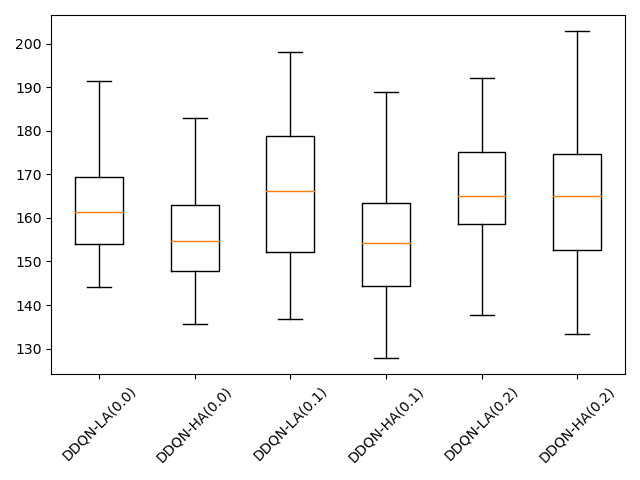
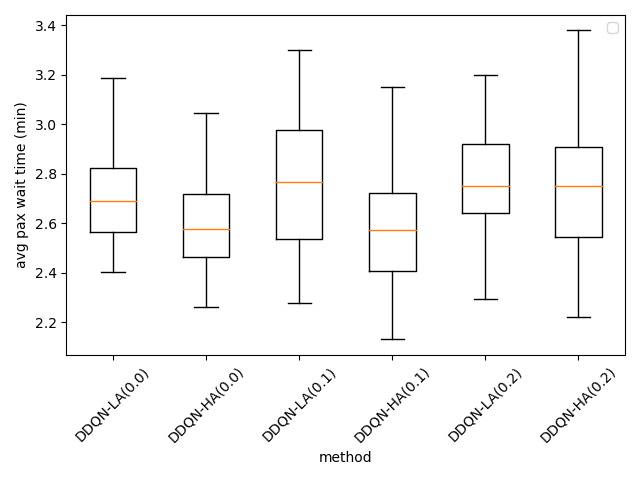
refine results

diff --git a/src/04_SIMULATION/main_sim.py b/src/04_SIMULATION/main_sim.py
@@ -4,6 +4,7 @@ import pandas as pd
 from sim_env import DetailedSimulationEnv, DetailedSimulationEnvWithControl, DetailedSimulationEnvWithDeepRL
 from file_paths import *
 import post_process
+import matplotlib.pyplot as plt
 from datetime import datetime, timedelta
 from output import dwell_times, error_headway, link_times
 from output import PostProcessor
@@ -128,14 +129,28 @@ def run_sample_rl(episodes=1, simple_reward=False):
 # path_p_rl3 = 'out/DDQN-HA/pax_set_0222-233609.pkl'
 # path_tr_rl4 = 'out/DDQN-HA/trajectory_set_0223-220817.pkl' # 0223-2159
 # path_p_rl4 = 'out/DDQN-HA/pax_set_0223-220817.pkl'
-# tags = ['NC', 'EH(0.6)', 'DDQN-LA', 'DDQN-HA(0.0)', 'DDQN-HA(0.33)', 'DDQN-HA(0.67)', 'DDQN-HA(1.0)']
+# tags = ['NC', 'EH', 'DDQN-LA', 'DDQN-HA(-)', 'DDQN-HA(3.0)', 'DDQN-HA(1.5)', 'DDQN-HA(1.0)']
 # prc = PostProcessor([path_tr_nc, path_tr_eh, path_tr_rl0, path_tr_rl1, path_tr_rl2, path_tr_rl3, path_tr_rl4],
 #                     [path_p_nc, path_p_eh, path_p_rl0, path_p_rl1, path_p_rl2, path_p_rl3, path_p_rl4], tags)
+# path_dir='out/compare/benchmark/'
 # results = {}
 # results.update(prc.pax_times_fast())
 # results.update(prc.headway())
 # results_df = pd.DataFrame(results, columns=list(results.keys()))
 # results_df.to_csv('out/compare/benchmark/numer_results.csv', index=False)
+# rbt_od_set = post_process.load('out/compare/benchmark/rbt_od_benchmark.pkl')
+# for i in range(len(rbt_od_set)):
+#     rbt_od_set[i] = [rbt/60 for rbt in rbt_od_set[i]]
+# plt.boxplot(rbt_od_set, labels=tags, sym='')
+# plt.xticks(rotation=45)
+# plt.xlabel('method')
+# plt.ylabel('reliability buffer time (min)')
+# plt.legend()
+# plt.tight_layout()
+# plt.savefig(path_dir + 'rbt.png')
+# plt.close()
+
+# save(path_dir + 'rbt_numer.pkl', rbt_od_set)
 # prc.write_trajectories()
 # df_nc = pd.read_csv('out/NC/trajectories.csv')
 # error_headway(STOPS, df_nc, 40)
@@ -155,7 +170,7 @@ def run_sample_rl(episodes=1, simple_reward=False):
 # path_p_rl2_inc = 'out/DDQN-HA/pax_set_0225-145011.pkl'
 # path_tr_rl2_dec = 'out/DDQN-HA/trajectory_set_0225-145143.pkl'
 # path_p_rl2_dec = 'out/DDQN-HA/pax_set_0225-145143.pkl'
-# tags = ['DDQN-LA(low)', 'DDQN-HA(low)', 'DDQN-LA(medium)', 'DDQN-HA(med)', 'DDQN-LA(high)', 'DDQN-HA(high)']
+# tags = ['DDQN-LA(low)', 'DDQN-HA(low)', 'DDQN-LA(medium)', 'DDQN-HA(medium)', 'DDQN-LA(high)', 'DDQN-HA(high)']
 # prc = PostProcessor([path_tr_rl0_dec, path_tr_rl2_dec, path_tr_rl0, path_tr_rl2, path_tr_rl0_inc, path_tr_rl2_inc],
 #                     [path_p_rl0_dec, path_p_rl2_dec, path_p_rl0, path_p_rl2, path_p_rl0_inc, path_p_rl2_inc], tags)
 # path_folder = 'out/compare/sensitivity run times/'
@@ -164,6 +179,19 @@ def run_sample_rl(episodes=1, simple_reward=False):
 # results.update(prc.headway(path_dir=path_folder))
 # results_df = pd.DataFrame(results, columns=list(results.keys()))
 # results_df.to_csv(path_folder + 'numer_results.csv', index=False)
+# path_dir='out/compare/sensitivity run times/'
+# rbt_od_set = post_process.load('out/compare/sensitivity run times/rbt_numer.pkl')
+# for i in range(len(rbt_od_set)):
+#     rbt_od_set[i] = [rbt/60 for rbt in rbt_od_set[i]]
+# plt.boxplot(rbt_od_set, labels=tags, sym='')
+# plt.xticks(rotation=45)
+# plt.xlabel('method')
+# plt.ylabel('reliability buffer time (min)')
+# plt.legend()
+# plt.tight_layout()
+# plt.savefig(path_dir + 'rbt.png')
+# plt.close()
+
 
 # PART 2 SENSITIVITY TO COMPLIANCE FACTOR
 # path_tr_rl0_0 = 'out/DDQN-LA/trajectory_set_0224-124312.pkl'
@@ -187,5 +215,16 @@ def run_sample_rl(episodes=1, simple_reward=False):
 # results.update(prc.headway(path_dir=path_folder))
 # results_df = pd.DataFrame(results, columns=list(results.keys()))
 # results_df.to_csv(path_folder + 'numer_results.csv', index=False)
-
-print("ran in %.2f seconds" % (time.time()-st))
+# path_dir='out/compare/sensitivity compliance/'
+# rbt_od_set = post_process.load('out/compare/sensitivity compliance/rbt_numer.pkl')
+# for i in range(len(rbt_od_set)):
+#     rbt_od_set[i] = [rbt/60 for rbt in rbt_od_set[i]]
+# plt.boxplot(rbt_od_set, labels=tags, sym='')
+# plt.xticks(rotation=45)
+# plt.xlabel('method')
+# plt.ylabel('reliability buffer time (min)')
+# plt.legend()
+# plt.tight_layout()
+# plt.savefig(path_dir + 'rbt.png')
+# plt.close()
+# print("ran in %.2f seconds" % (time.time()-st))

diff --git a/src/04_SIMULATION/post_process.py b/src/04_SIMULATION/post_process.py
@@ -629,7 +629,7 @@ def get_pax_times_fast(pax_set, n_stops):
         df = pd.DataFrame([{f: getattr(p, f) for f in fields} for p in rep])
         journey_time_set.append(df['journey_time'].mean())
         extreme_jt_set.append(df['journey_time'].quantile(0.95))
-        wait_time_set.append(df['wait_time'].mean())
+        wait_time_set.append(df['wait_time'].mean() /60)
         tot_pax = df.shape[0]
         denied_df = df[df['denied'] == 1]
         denied_pax = denied_df.shape[0]
@@ -637,18 +637,18 @@ def get_pax_times_fast(pax_set, n_stops):
         denied_rate_per_rep.append(denied_pax / tot_pax)
         denied_wait_time_set.append(denied_wt)
 
-        rbt_od = np.zeros(shape=(n_stops, n_stops))
-        rbt_od[:] = np.nan
-        pax_count = 0
-        for s0 in range(n_stops-1):
-            o_jt = df[df['orig_idx'] == s0]
-            for s1 in range(s0+1, n_stops):
-                od_jt = o_jt[o_jt['dest_idx'] == s1]
-                if not od_jt.empty:
-                    pax_od = od_jt.shape[0]
-                    pax_count += pax_od
-                    rbt_od[s0, s1] = (od_jt['journey_time'].quantile(0.95) - od_jt['journey_time'].median()) * pax_od
-        rbt_od_set.append(np.nansum(rbt_od) / pax_count)
+        # rbt_od = np.zeros(shape=(n_stops, n_stops))
+        # rbt_od[:] = np.nan
+        # pax_count = 0
+        # for s0 in range(n_stops-1):
+        #     o_jt = df[df['orig_idx'] == s0]
+        #     for s1 in range(s0+1, n_stops):
+        #         od_jt = o_jt[o_jt['dest_idx'] == s1]
+        #         if not od_jt.empty:
+        #             pax_od = od_jt.shape[0]
+        #             pax_count += pax_od
+        #             rbt_od[s0, s1] = (od_jt['journey_time'].quantile(0.95) - od_jt['journey_time'].median()) * pax_od
+        # rbt_od_set.append(np.nansum(rbt_od) / pax_count)
     # journey_time_mean = np.mean(journey_time_set)
     # wait_time_mean = np.mean(wait_time_set)
     denied_rate = np.mean(denied_rate_per_rep)

diff --git a/src/04_SIMULATION/output.py b/src/04_SIMULATION/output.py
@@ -42,16 +42,19 @@ class PostProcessor:
         # plt.close()
         plt.boxplot(wt_all_set, labels=self.cp_tags, sym='')
         plt.xticks(rotation=45)
+        plt.xlabel('method')
+        plt.ylabel('avg pax wait time (min)')
+        plt.legend()
         plt.tight_layout()
         plt.savefig(path_dir + 'wt.png')
         plt.close()
 
-        plt.boxplot(rbt_od_set, labels=self.cp_tags, sym='')
-        plt.xticks(rotation=45)
-        plt.tight_layout()
-        plt.savefig(path_dir + 'rbt.png')
-        plt.close()
-        save(path_dir + 'rbt_numer.pkl', rbt_od_set)
+        # plt.boxplot(rbt_od_set, labels=self.cp_tags, sym='')
+        # plt.xticks(rotation=45)
+        # plt.tight_layout()
+        # plt.savefig(path_dir + 'rbt.png')
+        # plt.close()
+        # save(path_dir + 'rbt_numer.pkl', rbt_od_set)
         return results_d
 
     def headway(self, path_dir='out/compare/benchmark/'):
@@ -68,6 +71,9 @@ class PostProcessor:
         results_hw = {'cv_hw': [np.mean(cv) for cv in cv_hw_set]}
         plt.boxplot(cv_all_reps, labels=self.cp_tags, sym='')
         plt.xticks(rotation=45)
+        plt.xlabel('method')
+        plt.ylabel('coefficient of variation of headway')
+        plt.legend()
         # plt.xticks(np.arange(len(self.cp_tags)), self.cp_tags)
         plt.tight_layout()
         plt.savefig(path_dir + 'hw_bplot.png')

diff --git a/src/04_SIMULATION/scratch.py b/src/04_SIMULATION/scratch.py
@@ -19,29 +19,7 @@ from agents_sim import Bus
 from input import BLOCK_TRIPS_INFO, BLOCK_DICT
 from copy import deepcopy
 
-buses = []
-for block_trip_set in BLOCK_TRIPS_INFO:
-    block_id = block_trip_set[0]
-    trip_set = block_trip_set[1]
-    buses.append(Bus(block_id, trip_set))
-
-# switch bus 1 and bus 4
-bus1 = buses[1]
-bus4 = buses[4]
-switch_idx = 3
-copy1 = bus1.pending_trips
-copy4 = bus4.pending_trips
-id1 = bus1.bus_id
-id4 = bus4.bus_id
-print(buses[1].pending_trips)
-print(buses[4].pending_trips)
-print(buses[1].bus_id)
-print(buses[4].bus_id)
-bus1.bus_id = id4
-bus4.bus_id = id1
-bus1.pending_trips = copy4[switch_idx:]
-bus4.pending_trips = copy4[:switch_idx] + copy1
-print(buses[1].pending_trips)
-print(buses[4].pending_trips)
-print(buses[1].bus_id)
-print(buses[4].bus_id)
+a = [[1, 3], [2, 4]]
+for j in range(len(a)):
+    a[j] = [i+1 for i in a[j]]
+print(a)
